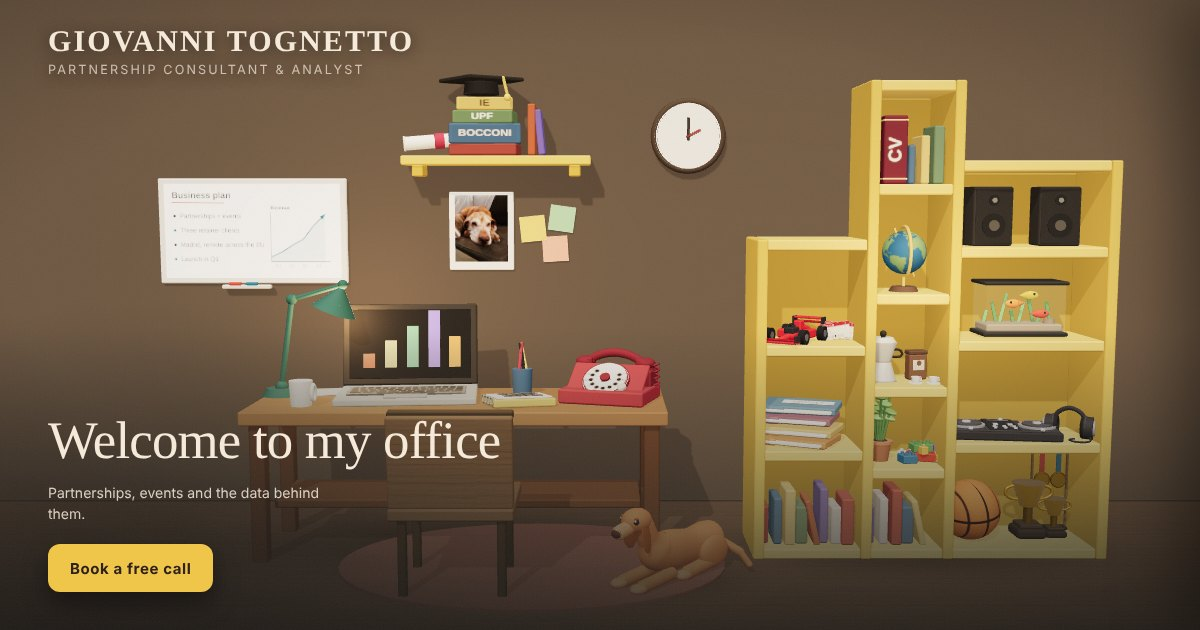
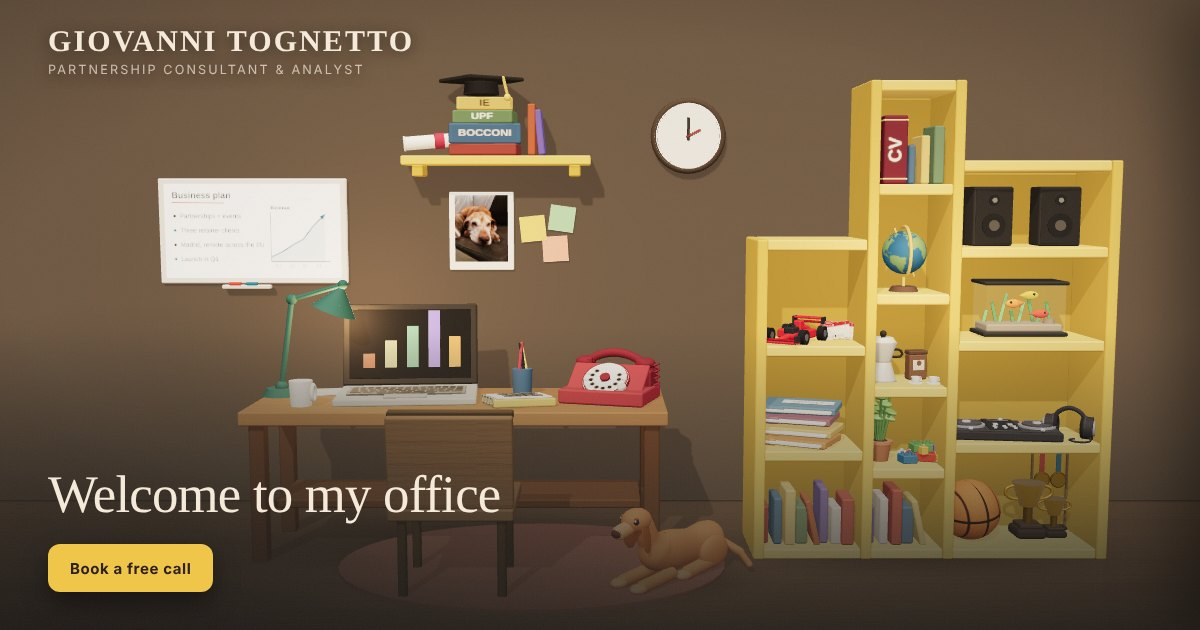
Add files via upload

Changed region(s): [[0.0308, 0.6635, 0.4317, 0.8444]]

diff --git a/index.html b/index.html
@@ -81,6 +81,7 @@ body[data-panel=open] #hints{opacity:0;pointer-events:none}
 .title{margin:0;font-family:var(--fd);font-weight:400;font-size:clamp(32px,4.4vw,70px);line-height:1.02;letter-spacing:-.015em}
 .lede{margin:14px 0 0;max-width:34ch;font-size:clamp(14px,1.15vw,18px);line-height:1.5;color:rgb(var(--light-rgb)/.86)}
 .intro-cta{display:flex;flex-wrap:wrap;gap:10px;margin-top:20px;pointer-events:auto}
+.intro-cta--tight{margin-top:22px}
 .btn{display:inline-flex;align-items:center;justify-content:center;min-height:48px;padding:13px 22px;
   border-radius:12px;font-family:var(--fu);font-size:15px;font-weight:700;letter-spacing:.04em;
   cursor:pointer;text-decoration:none;transition:transform .16s ease,filter .16s ease,background .16s ease}
@@ -210,8 +211,7 @@ body[data-panel=open] #hints{opacity:0;pointer-events:none}
 
   <div class="intro">
     <h1 class="title">Welcome to my office</h1>
-    <p class="lede" id="lede">Partnerships, events and the data behind them.</p>
-    <div class="intro-cta">
+    <div class="intro-cta intro-cta--tight">
       <a class="btn btn-go" href="https://calendar.app.google/UVRpSX8X4jy7VhyV8" target="_blank" rel="noreferrer" data-cta="hero-call">Book a free call</a>
     </div>
     <p class="hint-line">Click around and see what you find — or use the menu for a quicker way through.</p>
